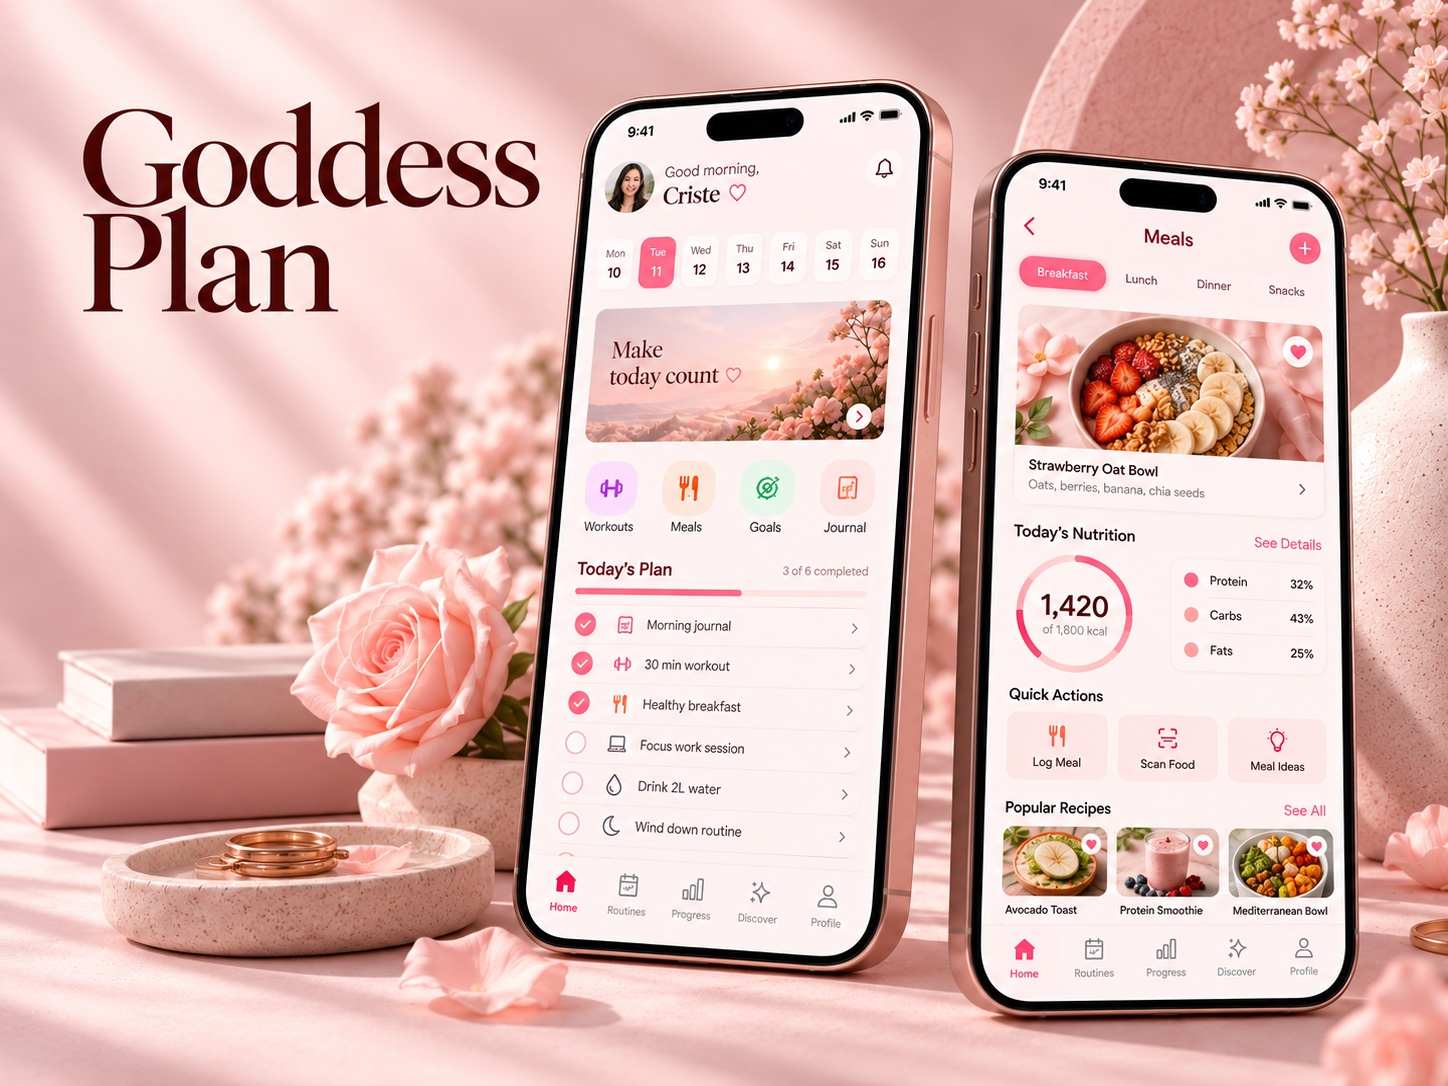
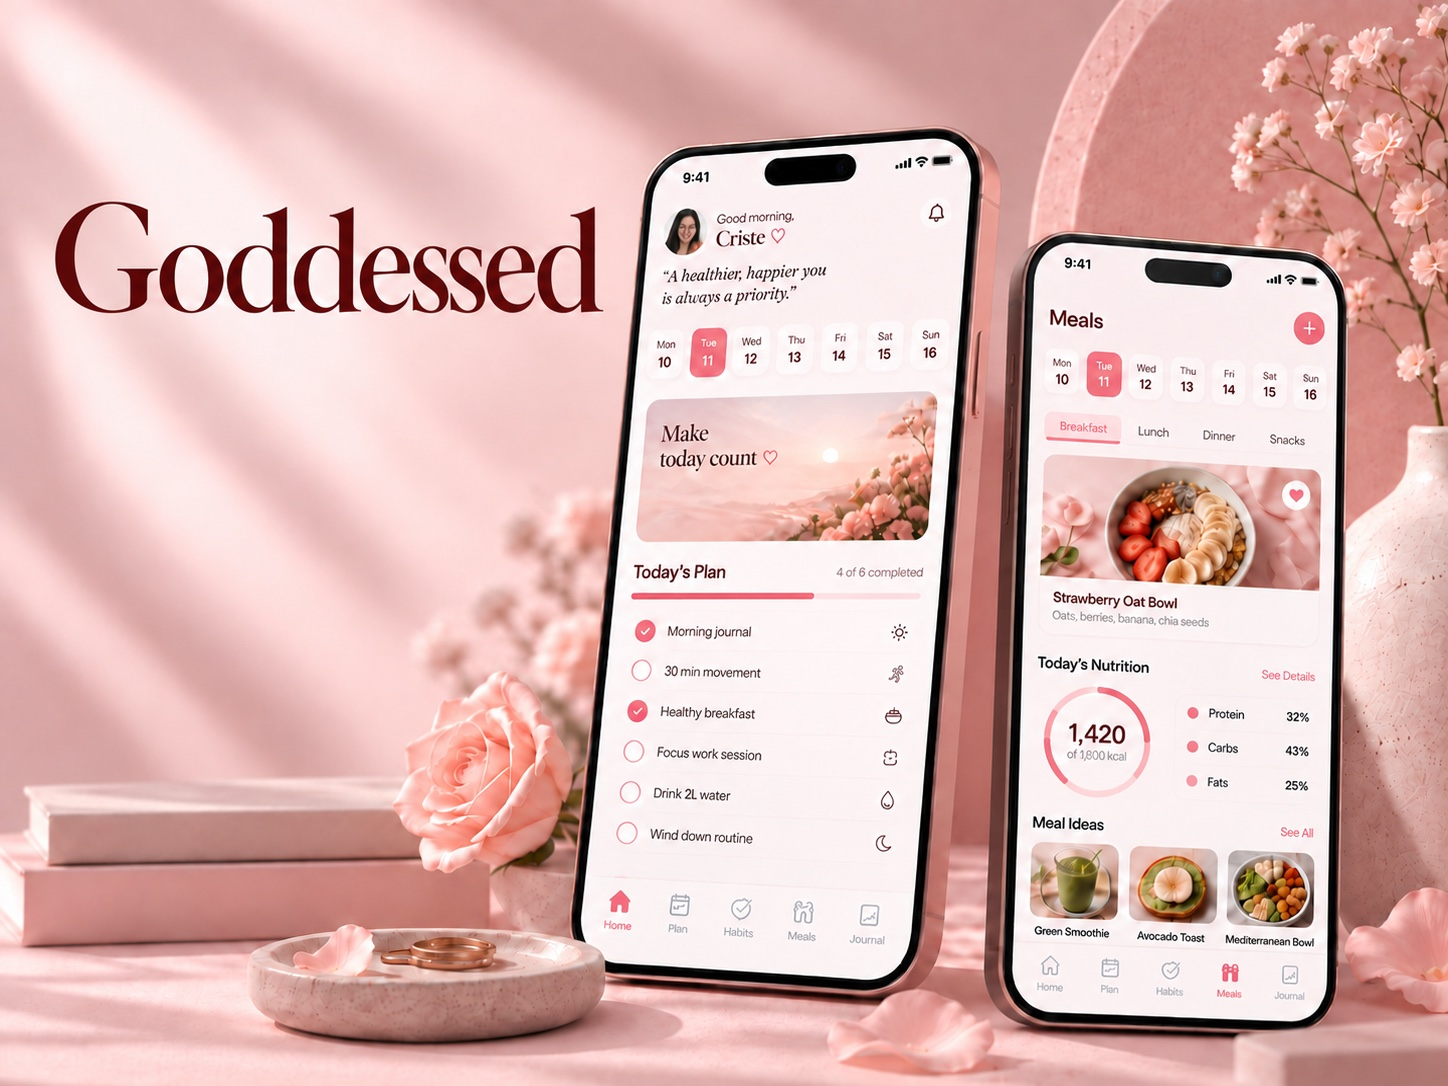
Update Goddessed cover and project name

diff --git a/src/components/pages/CaseStudyPage.jsx b/src/components/pages/CaseStudyPage.jsx
@@ -37,12 +37,12 @@ const studies = {
     next: 'Create a fictional-data demo account, check core totals against hand-calculated examples, test a second account and recovery, and capture privacy-safe screenshots.',
   },
   'goddess-plan': {
-    title: 'Goddess Plan',
+    title: 'Goddessed',
     eyebrow: 'Wellness & daily planning · independent project',
     intro: 'One welcoming space for plans, progress, and reflection.',
-    summary: 'Goddess Plan brings routines, workout planning, meals, goals, and personal notes together. I designed it for people who want to build healthier habits, plan their days, and have a private-feeling place to reflect without judgment.',
+    summary: 'Goddessed brings routines, workout planning, meals, goals, and personal notes together. I designed it for people who want to build healthier habits, plan their days, and have a private-feeling place to reflect without judgment.',
     live: 'https://goddess-plan.vercel.app/',
-    cover: '/portfolio/covers/goddess-plan-2026.jpg?v=20261017',
+    cover: '/portfolio/covers/goddess-plan-2026.jpg?v=20261018',
     accent: 'purple',
     problem: 'Daily plans, workouts, food notes, and life goals are often kept in different places. I wanted a flexible home for practical checklists and progress tracking, with room for reflection as well.',
     audience: 'People working toward weight or activity goals, planning routines, and following goals in other parts of life. The diary is intended to feel welcoming; that is a design intention, not a privacy or medical guarantee.',
@@ -59,10 +59,10 @@ const studies = {
       { title: 'Diary & notes', text: 'Write reflections and personal notes in the same planning space.' },
     ],
     screenshots: [
-      { src: '/portfolio/apps/goddess-home-light.webp', title: 'Daily home', alt: 'Goddess Plan daily dashboard and routine cards' },
-      { src: '/portfolio/apps/goddess-workout-light.webp', title: 'Workout planning', alt: 'Goddess Plan workout planning screen from an earlier version' },
-      { src: '/portfolio/apps/goddess-meal-log-light.webp', title: 'Meal log', alt: 'Goddess Plan food and calorie logging screen' },
-      { src: '/portfolio/apps/goddess-body-care-light.webp', title: 'Body care', alt: 'Goddess Plan Body Care section with categories and a treatment schedule' },
+      { src: '/portfolio/apps/goddess-home-light.webp', title: 'Daily home', alt: 'Goddessed daily dashboard and routine cards' },
+      { src: '/portfolio/apps/goddess-workout-light.webp', title: 'Workout planning', alt: 'Goddessed workout planning screen from an earlier version' },
+      { src: '/portfolio/apps/goddess-meal-log-light.webp', title: 'Meal log', alt: 'Goddessed food and calorie logging screen' },
+      { src: '/portfolio/apps/goddess-body-care-light.webp', title: 'Body care', alt: 'Goddessed Body Care section with categories and a treatment schedule' },
     ],
     observed: 'In a read-only review of the updated live app, I saw daily plan cards, checklist controls, a revised weekly workout schedule, meal and calorie displays, and goal progress screens. I did not change personal entries.',
     reported: 'I report that the selected features work and that I have tested forms, calculations, interactions, and mobile layouts. The specific calculation examples, devices, browsers, and bug-fix examples are still being documented.',

diff --git a/src/data/experienceData.js b/src/data/experienceData.js
@@ -75,27 +75,27 @@ export const experiences = [
   },
   {
     id: 4,
-    company: 'Goddess Plan',
+    company: 'Goddessed',
     categories: ['Digital'],
     caseStudyHref: '/case-studies/goddess-plan/',
     role: 'AI-Assisted Web App Creator',
     period: '2026 – Present',
     image: '/portfolio/apps/goddess-home-light.webp',
-    cover: '/portfolio/covers/goddess-plan-2026.jpg?v=20261017',
+    cover: '/portfolio/covers/goddess-plan-2026.jpg?v=20261018',
     thumbnail: '/portfolio/apps/thumbs/goddess-home-light.jpg',
     gallery: [
-      appScreenshot('goddess-home-light', 'Goddess Plan daily dashboard in light theme'),
-      appScreenshot('goddess-home-details-light', 'Goddess Plan home page details in light theme'),
-      appScreenshot('goddess-workout-light', 'Goddess Plan workout and meal suggestions in light theme'),
-      appScreenshot('goddess-meals-calendar-light', 'Goddess Plan meal calendar in light theme'),
-      appScreenshot('goddess-meal-log-light', 'Goddess Plan food and calorie log in light theme'),
-      appScreenshot('goddess-calorie-balance-light', 'Goddess Plan daily calorie balance in light theme'),
-      appScreenshot('goddess-body-care-light', 'Goddess Plan body care categories in light theme'),
-      appScreenshot('goddess-home-dark', 'Goddess Plan daily dashboard in dark theme'),
-      appScreenshot('goddess-home-details-dark', 'Goddess Plan home page details in dark theme'),
-      appScreenshot('goddess-workout-dark', 'Goddess Plan workout and meal suggestions in dark theme'),
-      appScreenshot('goddess-meals-calendar-dark', 'Goddess Plan meal calendar in dark theme'),
-      appScreenshot('goddess-body-care-dark', 'Goddess Plan body care categories in dark theme'),
+      appScreenshot('goddess-home-light', 'Goddessed daily dashboard in light theme'),
+      appScreenshot('goddess-home-details-light', 'Goddessed home page details in light theme'),
+      appScreenshot('goddess-workout-light', 'Goddessed workout and meal suggestions in light theme'),
+      appScreenshot('goddess-meals-calendar-light', 'Goddessed meal calendar in light theme'),
+      appScreenshot('goddess-meal-log-light', 'Goddessed food and calorie log in light theme'),
+      appScreenshot('goddess-calorie-balance-light', 'Goddessed daily calorie balance in light theme'),
+      appScreenshot('goddess-body-care-light', 'Goddessed body care categories in light theme'),
+      appScreenshot('goddess-home-dark', 'Goddessed daily dashboard in dark theme'),
+      appScreenshot('goddess-home-details-dark', 'Goddessed home page details in dark theme'),
+      appScreenshot('goddess-workout-dark', 'Goddessed workout and meal suggestions in dark theme'),
+      appScreenshot('goddess-meals-calendar-dark', 'Goddessed meal calendar in dark theme'),
+      appScreenshot('goddess-body-care-dark', 'Goddessed body care categories in dark theme'),
     ],
     gradient: 'from-purple-950/90 via-purple-800/40 to-transparent',
     badge: '💻 Web App',

diff --git a/case-studies/goddess-plan/index.html b/case-studies/goddess-plan/index.html
@@ -3,15 +3,15 @@
   <head>
     <meta charset="UTF-8" />
     <meta name="viewport" content="width=device-width, initial-scale=1.0" />
-    <meta name="description" content="How I planned, designed, tested, and deployed Goddess Plan, an AI-assisted app for daily routines, workouts, meals, goals, and reflection." />
+    <meta name="description" content="How I planned, designed, tested, and deployed Goddessed, an AI-assisted app for daily routines, workouts, meals, goals, and reflection." />
     <meta name="theme-color" content="#fffafc" />
     <meta property="og:type" content="article" />
     <meta property="og:url" content="https://cristejoy.com/case-studies/goddess-plan/" />
-    <meta property="og:title" content="Goddess Plan Case Study | Criste Joy Calosor" />
-    <meta property="og:description" content="How I planned, designed, tested, and deployed Goddess Plan, an AI-assisted app for daily routines, workouts, meals, goals, and reflection." />
-    <meta property="og:image" content="https://cristejoy.com/portfolio/apps/goddess-home-light.webp" />
+    <meta property="og:title" content="Goddessed Case Study | Criste Joy Calosor" />
+    <meta property="og:description" content="How I planned, designed, tested, and deployed Goddessed, an AI-assisted app for daily routines, workouts, meals, goals, and reflection." />
+    <meta property="og:image" content="https://cristejoy.com/portfolio/covers/goddess-plan-2026.jpg?v=20261018" />
     <link rel="canonical" href="https://cristejoy.com/case-studies/goddess-plan/" />
-    <title>Goddess Plan Case Study | Criste Joy Calosor</title>
+    <title>Goddessed Case Study | Criste Joy Calosor</title>
     <link rel="icon" type="image/png" href="/cj-logo.png" />
   </head>
   <body>

diff --git a/src/data/servicesData.js b/src/data/servicesData.js
@@ -22,7 +22,7 @@ export const serviceCategories = [
     homeSubtitle: 'Websites & Apps',
     subtitle: 'Websites & Online Projects',
     description: 'I help businesses plan, organize, update, and improve their websites and digital experiences.',
-    experience: 'Explore CashBelle and Goddess Plan to see how I plan and test AI-assisted projects.',
+    experience: 'Explore CashBelle and Goddessed to see how I plan and test AI-assisted projects.',
     experienceHref: '#web-applications',
     services: [
       { title: 'Website Design & Layout Planning', description: 'Planning page structures, layouts, and visual hierarchy.' },

diff --git a/src/components/pages/ServicePage.jsx b/src/components/pages/ServicePage.jsx
@@ -25,7 +25,7 @@ export default function ServicePage({ slug }) {
   if (!category) return null
   const bestOfCebu = experiences.find(item => item.company === 'Best of Cebu')
   const cashbelle = experiences.find(item => item.company === 'CashBelle')
-  const goddess = experiences.find(item => item.company === 'Goddess Plan')
+  const goddess = experiences.find(item => item.company === 'Goddessed')
 
   return <div className="min-h-screen bg-[#fffafc] font-body text-rose-950">
     <header className="border-b border-rose-100 bg-white/90">
